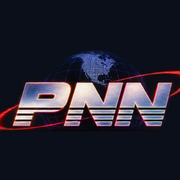
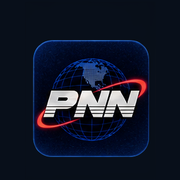
Refresh brand assets from the official PNN brand kit
Regenerate favicon.ico, icon.png, and apple-icon.png from the
official app-icon artwork so all three match the canonical mark.
Swap the footer logo to the mono-white lockup for a cleaner look
on the dark footer background. Replace the plain-logo TV banner
image with the richer "Live From New York" skyline broadcast
graphic from the brand kit. Sync brand-red, brand-dark, and
brand-silver in the Tailwind config to the brand guide's exact
hex values (#FF202D, #080F1A, #AFB3C8).

Claude-Session: https://claude.ai/code/session_01HUgvztjT7LDLa8NvReDYPg

Changed region(s): [[0.0, 0.2222, 1.0, 0.8889]]

diff --git a/components/SiteFooter.tsx b/components/SiteFooter.tsx
@@ -10,10 +10,10 @@ export function SiteFooter() {
       <div className="mx-auto grid max-w-[1440px] grid-cols-2 gap-8 px-4 py-10 sm:grid-cols-4">
         <div className="col-span-2 sm:col-span-1">
           <Image
-            src="/logo.png"
+            src="/logo-mono-white.png"
             alt="Panic News Network"
-            width={720}
-            height={357}
+            width={280}
+            height={156}
             className="h-14 w-auto"
           />
           <p className="mt-3 max-w-xs text-neutral-400">

diff --git a/components/TvBanner.tsx b/components/TvBanner.tsx
@@ -18,8 +18,8 @@ export function TvBanner() {
           <Image
             src="/brand/pnn-tv-banner.jpg"
             alt="Panic News Network"
-            width={1536}
-            height={1024}
+            width={1254}
+            height={1254}
             className="w-full select-none"
             priority={false}
           />

diff --git a/tailwind.config.ts b/tailwind.config.ts
@@ -9,10 +9,10 @@ const config: Config = {
     extend: {
       colors: {
         brand: {
-          red: "#E01E1E",
+          red: "#FF202D",
           blue: "#0066FF",
-          dark: "#0B0F1A",
-          silver: "#9FA7B9",
+          dark: "#080F1A",
+          silver: "#AFB3C8",
           pink: "#FF2DA8",
         },
       },
